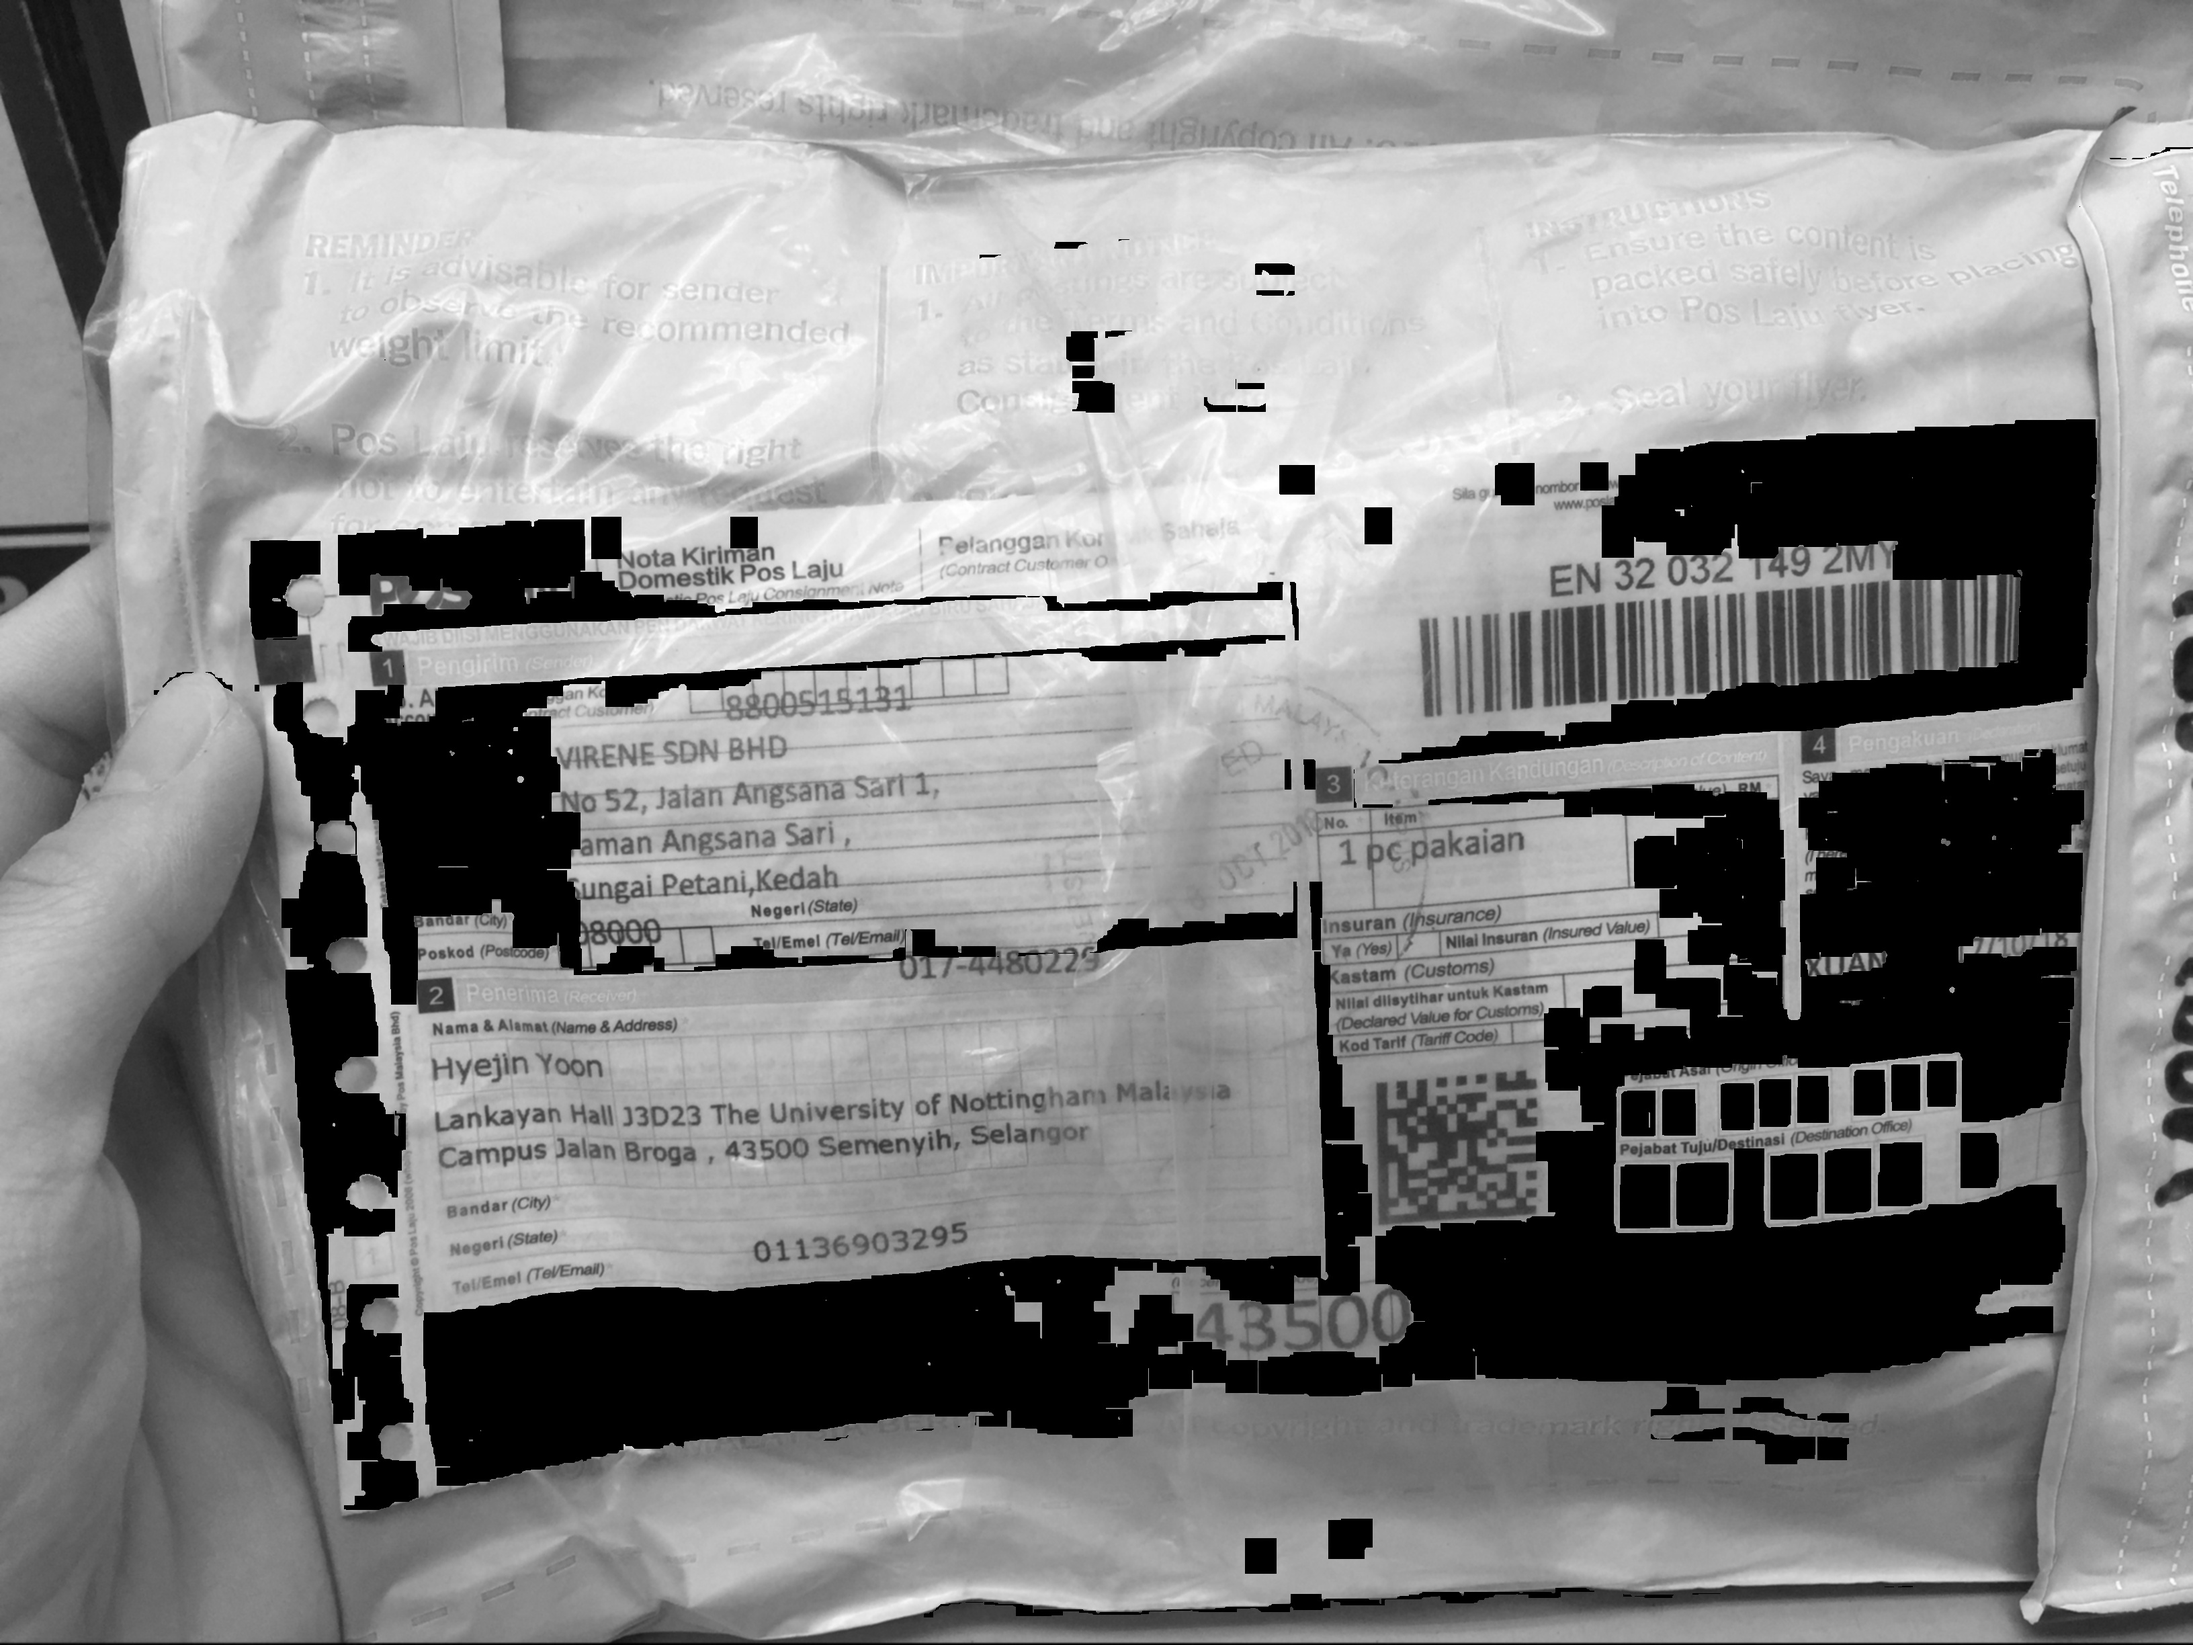
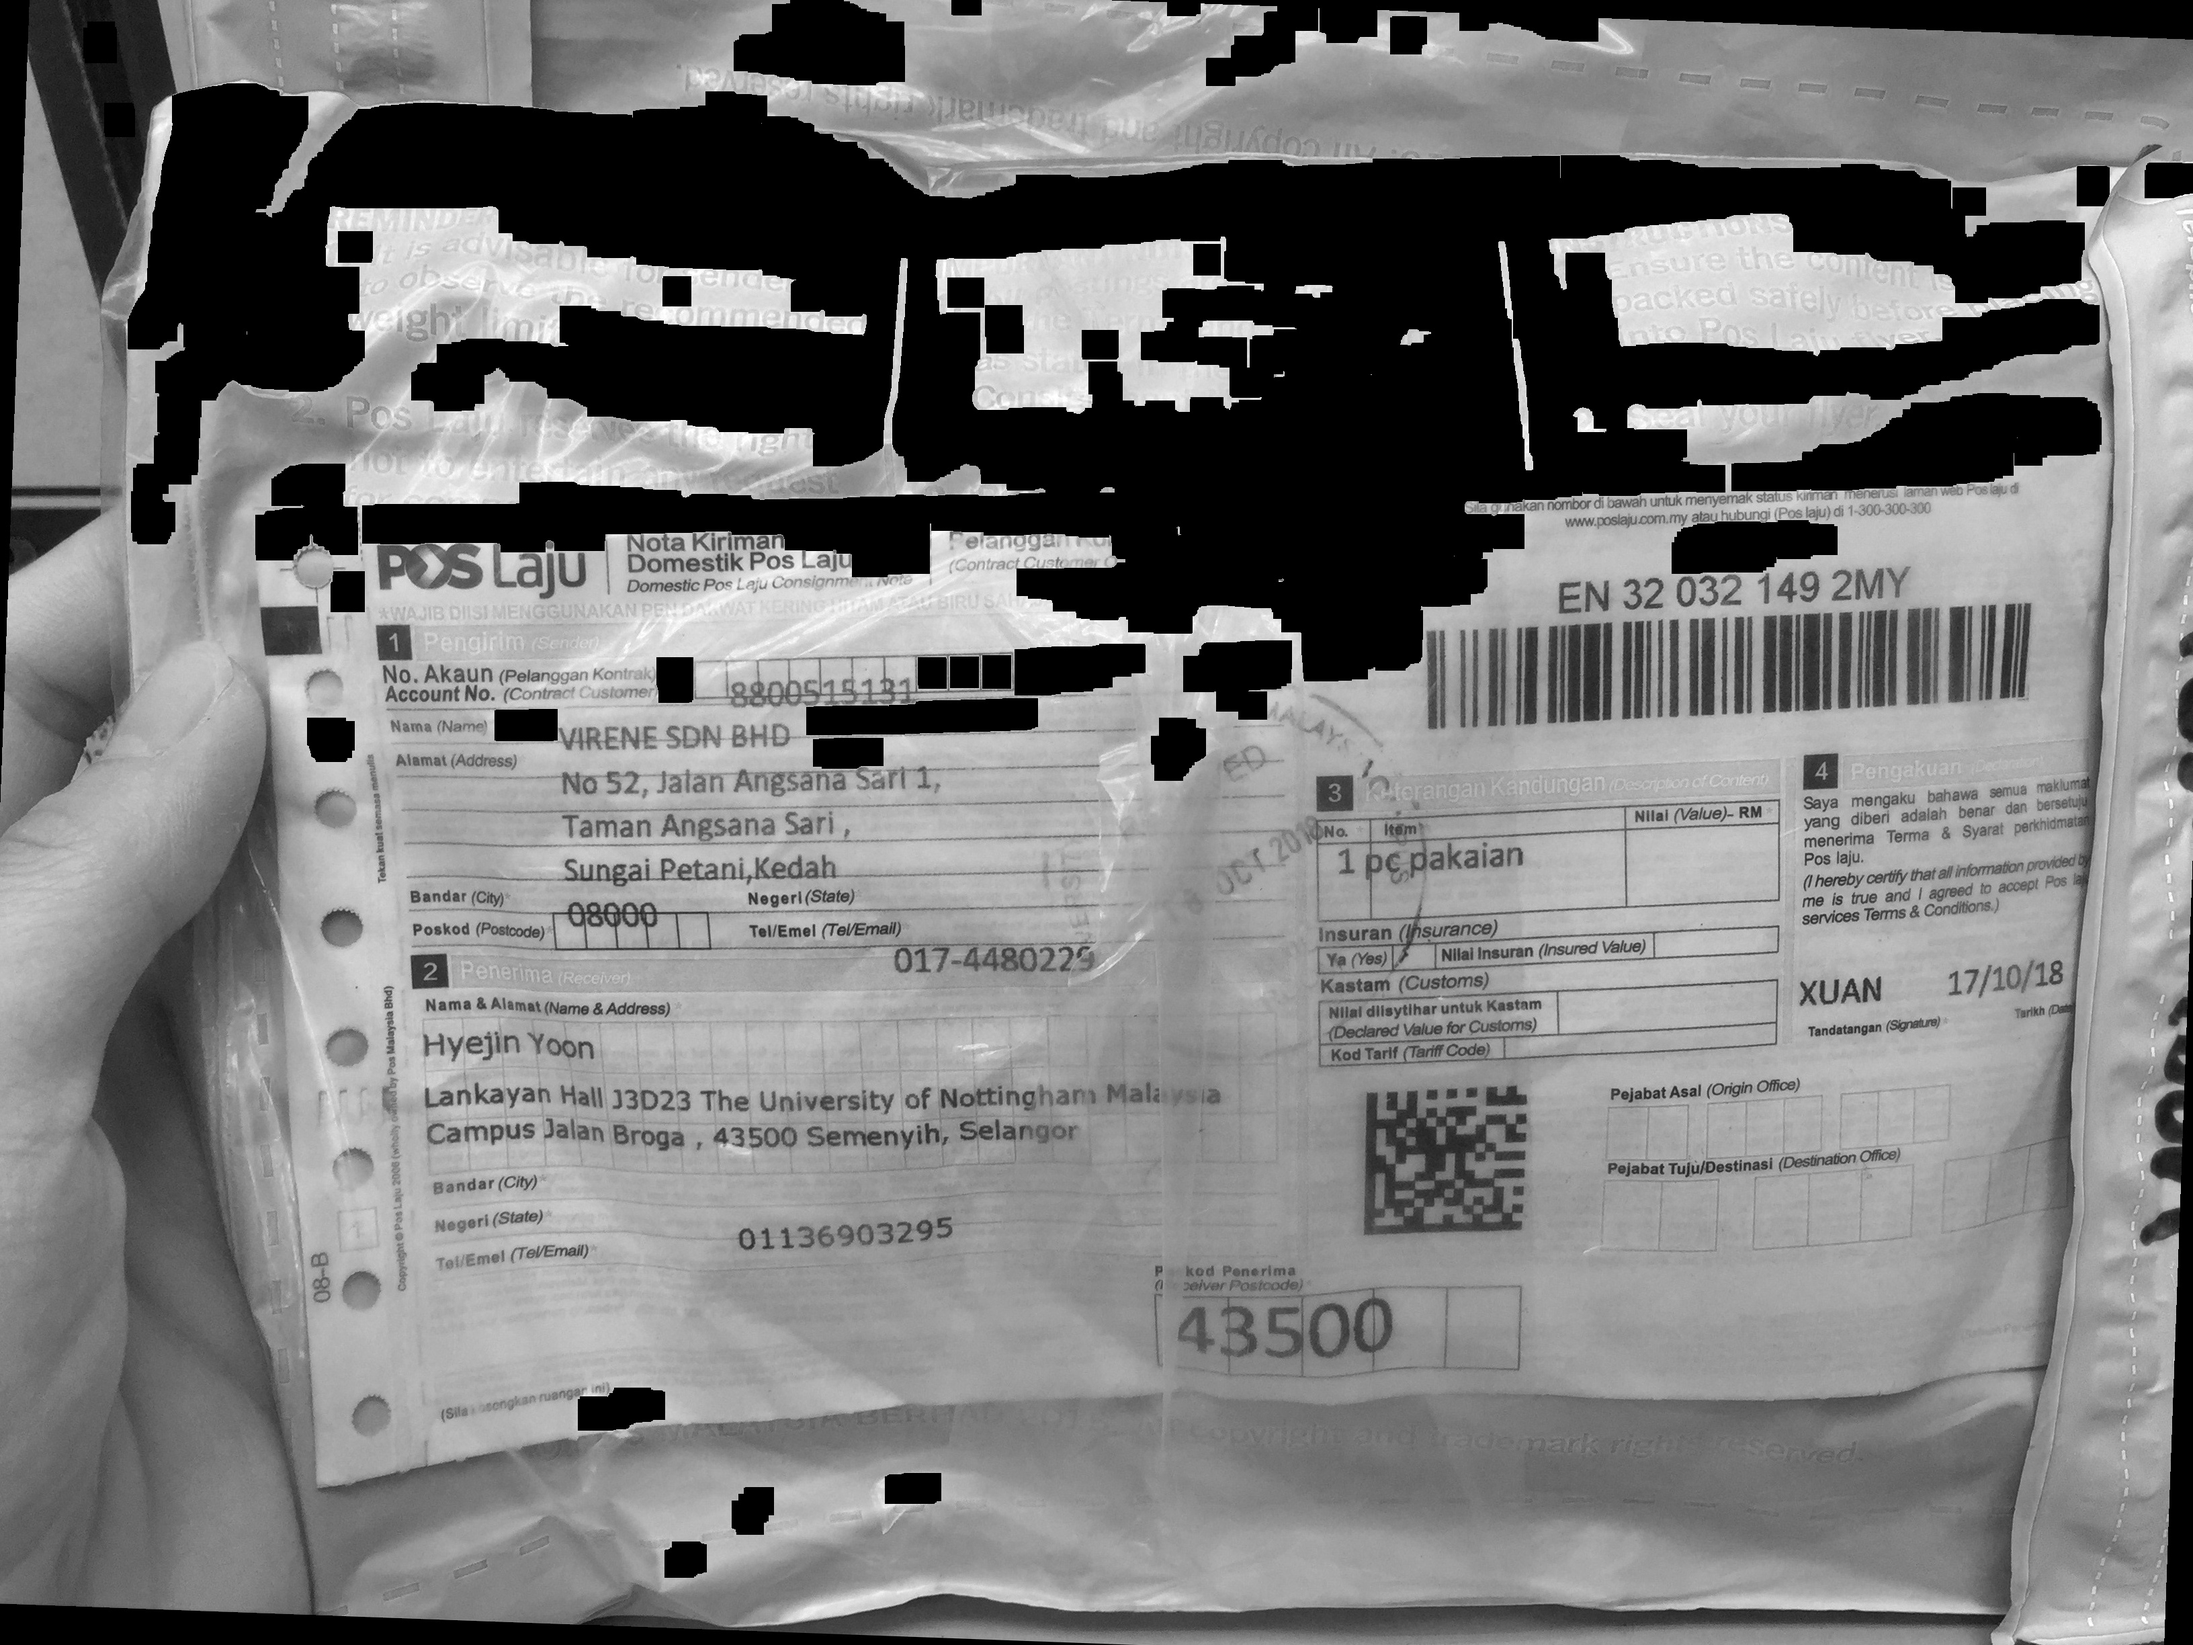
combined align and color mask

diff --git a/preVisionAPI.py b/preVisionAPI.py
@@ -12,59 +12,21 @@ img = ori
 img = cv2.cvtColor(img, cv2.COLOR_BGR2HSV)
 img = cv2.GaussianBlur(img, (5,5), 0)
 
-def onTrackbarChange(val):
+h, s, v = cv2.split(img)
+thresh, binary = ip.binarize(v)
 
-	l_h = cv2.getTrackbarPos('L - H', 'Trackbars')
-	l_s = cv2.getTrackbarPos('L - S', 'Trackbars')
-	l_v = cv2.getTrackbarPos('L - V', 'Trackbars')
-	u_h = cv2.getTrackbarPos('U - H', 'Trackbars')
-	u_s = cv2.getTrackbarPos('U - S', 'Trackbars')
-	u_v = cv2.getTrackbarPos('U - V', 'Trackbars')
+# align image
+angle = ip.getAlignAngle(binary)
+img = ip.rotateImage(ori, angle)
 
-	print(l_h, l_s, l_v)
-	lower = np.array([l_h, l_s, l_v])
-	upper = np.array([u_h, u_s, u_v])
-	mask = cv2.inRange(img, lower, upper)
 
-	ip.displayImage(mask)
-
-def createTrackbar():
-	# trackbars
-	cv2.namedWindow('Trackbars')
-	cv2.resizeWindow('Trackbars', 300, 300)
-	cv2.createTrackbar('L - H', 'Trackbars', 0, 179, onTrackbarChange)
-	cv2.createTrackbar('L - S', 'Trackbars', 0, 255, onTrackbarChange)
-	cv2.createTrackbar('L - V', 'Trackbars', 0, 255, onTrackbarChange)
-	cv2.createTrackbar('U - H', 'Trackbars', 179, 179, onTrackbarChange)
-	cv2.createTrackbar('U - S', 'Trackbars', 255, 255, onTrackbarChange)
-	cv2.createTrackbar('U - V', 'Trackbars', 255, 255, onTrackbarChange)
-
-# createTrackbar()
-# cv2.waitKey(0)
-# cv2.destroyAllWindows()
-
+# colour mask
 lower_purple = np.array([40, 0, 0])
 upper_purple = np.array([179, 255, 255])
-purple_mask = cv2.inRange(img, lower_purple, upper_purple)
-purple_mask = ip.dilate(purple_mask, x=5,i = 10)
-purple_mask = ip.erode(purple_mask, x=5,i = 10)
-# result = cv2.bitwise_and(img, img, mask=purple_mask)
-
-# lower_orange = np.array([0, 50, 240])
+purple_mask = ip.createMask(img, lower_purple, upper_purple)
 lower_orange = np.array([0, 30, 0])
 upper_orange = np.array([179, 255, 255])
-orange_mask = cv2.inRange(img, lower_orange, upper_orange)
-orange_mask = ip.dilate(orange_mask, x=5,i = 10)
-orange_mask = ip.erode(orange_mask, x=5,i = 10)
-# result = cv2.bitwise_and(img, img, mask=orange_mask)
-
-lower_black = np.array([0, 0, 5])
-upper_black = np.array([179, 255, 255])
-black_mask = cv2.inRange(img, lower_black, upper_black)
-black_mask = ip.dilate(black_mask, x=5,i = 10)
-black_mask = ip.erode(black_mask, x=5,i = 10)
-# result = cv2.bitwise_and(img, img, mask=black_mask)
-
+orange_mask = ip.createMask(img, lower_orange, upper_orange)
 mask = cv2.bitwise_or(purple_mask, orange_mask)
 result = cv2.bitwise_and(img, img, mask=mask)
 

diff --git a/hsvMask.py b/hsvMask.py
@@ -1,0 +1,71 @@
+import ImageProcessing as ip
+import Util as u
+import numpy as np
+import cv2
+import sys
+
+imgPath = 'D:/Code/Python/OpenCV/samples/sample2.jpg'
+newImgPath = 'D:/Code/Python/OpenCV/samples/labelled/filtered.jpg'
+
+ori = cv2.imread(imgPath, cv2.IMREAD_COLOR)
+img = ori
+img = cv2.cvtColor(img, cv2.COLOR_BGR2HSV)
+img = cv2.GaussianBlur(img, (5,5), 0)
+
+def onTrackbarChange(val):
+
+	l_h = cv2.getTrackbarPos('L - H', 'Trackbars')
+	l_s = cv2.getTrackbarPos('L - S', 'Trackbars')
+	l_v = cv2.getTrackbarPos('L - V', 'Trackbars')
+	u_h = cv2.getTrackbarPos('U - H', 'Trackbars')
+	u_s = cv2.getTrackbarPos('U - S', 'Trackbars')
+	u_v = cv2.getTrackbarPos('U - V', 'Trackbars')
+
+	print(l_h, l_s, l_v)
+	lower = np.array([l_h, l_s, l_v])
+	upper = np.array([u_h, u_s, u_v])
+	mask = cv2.inRange(img, lower, upper)
+
+	ip.displayImage(mask)
+
+def createTrackbar():
+	# trackbars
+	cv2.namedWindow('Trackbars')
+	cv2.resizeWindow('Trackbars', 300, 300)
+	cv2.createTrackbar('L - H', 'Trackbars', 0, 179, onTrackbarChange)
+	cv2.createTrackbar('L - S', 'Trackbars', 0, 255, onTrackbarChange)
+	cv2.createTrackbar('L - V', 'Trackbars', 0, 255, onTrackbarChange)
+	cv2.createTrackbar('U - H', 'Trackbars', 179, 179, onTrackbarChange)
+	cv2.createTrackbar('U - S', 'Trackbars', 255, 255, onTrackbarChange)
+	cv2.createTrackbar('U - V', 'Trackbars', 255, 255, onTrackbarChange)
+
+# createTrackbar()
+# cv2.waitKey(0)
+# cv2.destroyAllWindows()
+
+lower_purple = np.array([40, 0, 0])
+upper_purple = np.array([179, 255, 255])
+purple_mask = cv2.inRange(img, lower_purple, upper_purple)
+purple_mask = ip.dilate(purple_mask, x=5,i = 10)
+purple_mask = ip.erode(purple_mask, x=5,i = 10)
+# result = cv2.bitwise_and(img, img, mask=purple_mask)
+
+# lower_orange = np.array([0, 50, 240])
+lower_orange = np.array([0, 30, 0])
+upper_orange = np.array([179, 255, 255])
+orange_mask = cv2.inRange(img, lower_orange, upper_orange)
+orange_mask = ip.dilate(orange_mask, x=5,i = 10)
+orange_mask = ip.erode(orange_mask, x=5,i = 10)
+# result = cv2.bitwise_and(img, img, mask=orange_mask)
+
+mask = cv2.bitwise_or(purple_mask, orange_mask)
+result = cv2.bitwise_and(img, img, mask=mask)
+
+h, s, v = cv2.split(result)
+img = v
+
+# ip.displayImage(img)
+cv2.imwrite(newImgPath, img)
+
+
+print 'PreVision script done.'

diff --git a/ImageProcessing.py b/ImageProcessing.py
@@ -123,14 +123,12 @@ def rotateBound(img, angle):
 
 # gets img as bin
 # returns an angle that would fix any misalignment based on text orientation
-def getAlignAngle(bin):
-	temp = bin
+def getAlignAngle(binary):
+	temp = binary
 
 	temp = erode(temp, 5, 10)
-	# ip.displayImage(ip.resize(temp))
 
 	temp = dilate(temp, 5, 5)
-	# ip.displayImage(ip.resize(temp))
 
 	temp, contours, hierarchy = getContours(temp)
 
@@ -174,4 +172,11 @@ def getAlignAngle(bin):
 		return aveAngle
 	else:
 		# print 'is vert - wrong orientation'
-		return aveAngle+90
+		return aveAngle+9
+
+def createMask(img, lower, upper):
+	mask = cv2.inRange(img, lower, upper)
+	mask = dilate(mask, x=5,i = 10)
+	mask = erode(mask, x=5,i = 10)
+	return mask
+

diff --git a/alignImage.py b/alignImage.py
@@ -10,7 +10,6 @@ contoursImgPath = 'D:/Code/Python/OpenCV/samples/labelled/contours.jpg'
 
 ori = cv2.imread(imgPath, cv2.IMREAD_COLOR)
 img = ori
-height, width, channels = img.shape
 img = cv2.cvtColor(img, cv2.COLOR_BGR2HSV)
 
 h, s, v = cv2.split(img)
